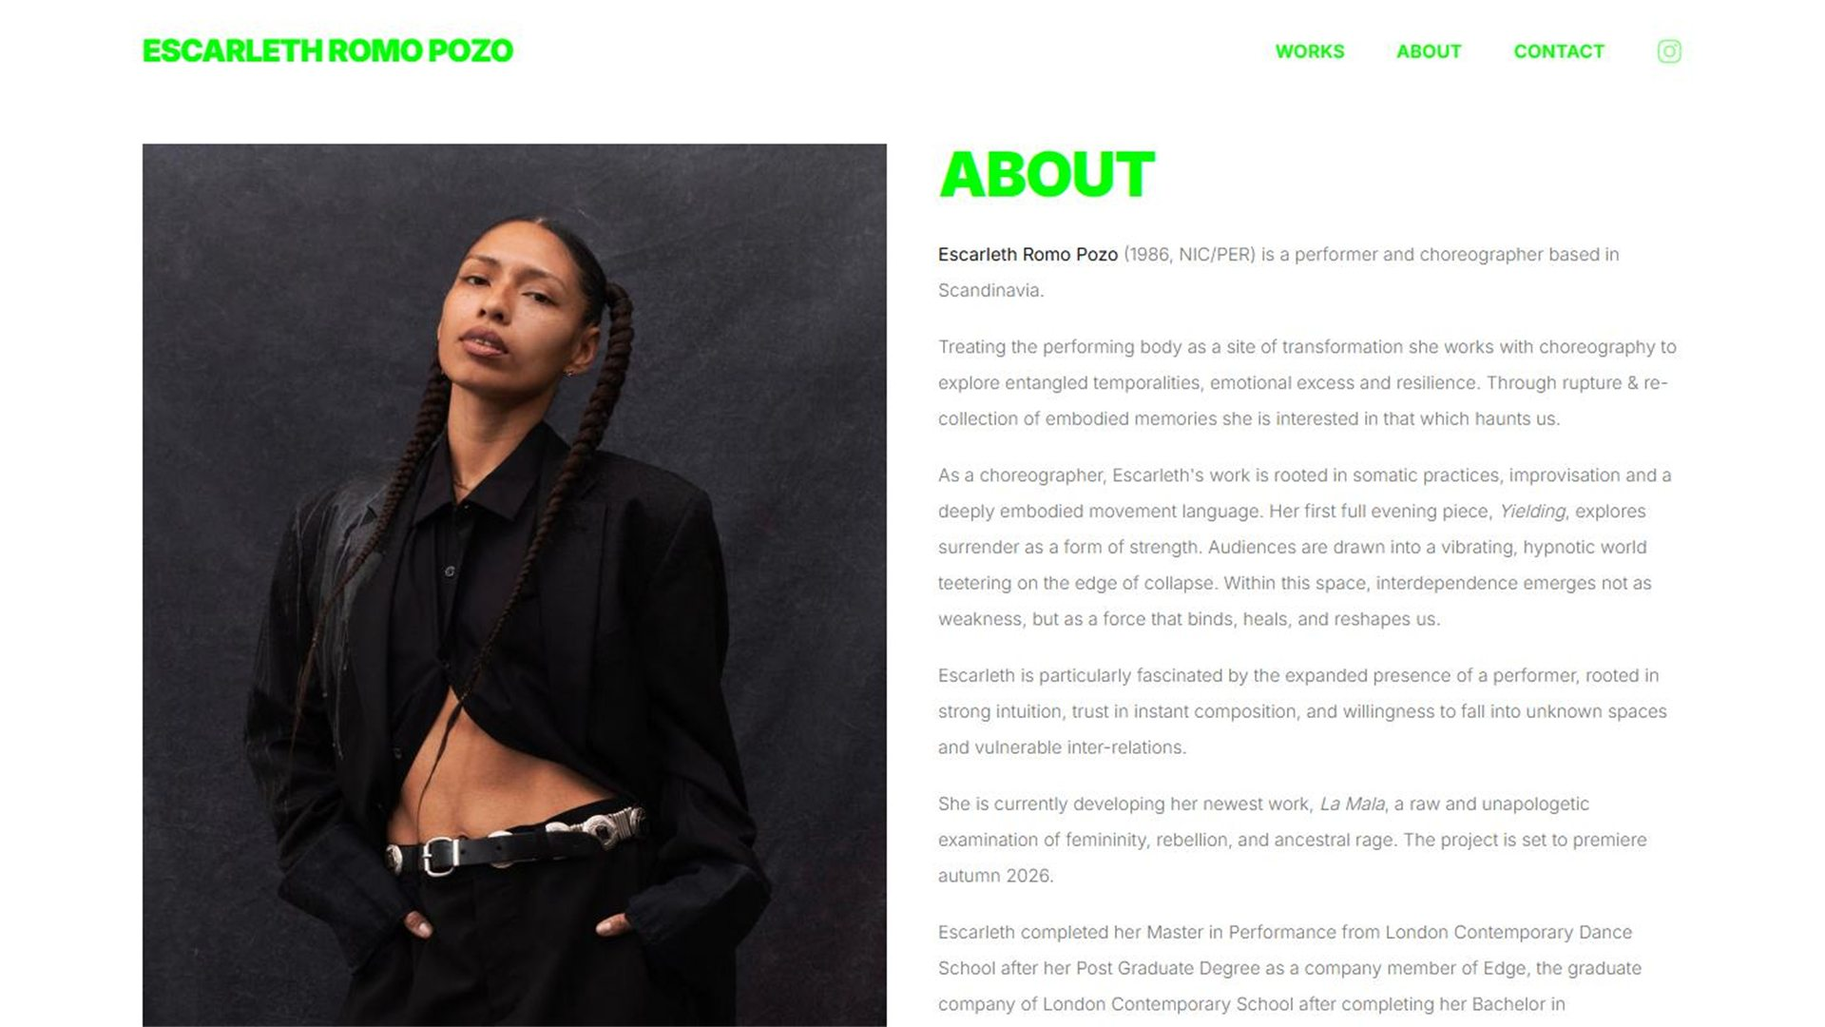
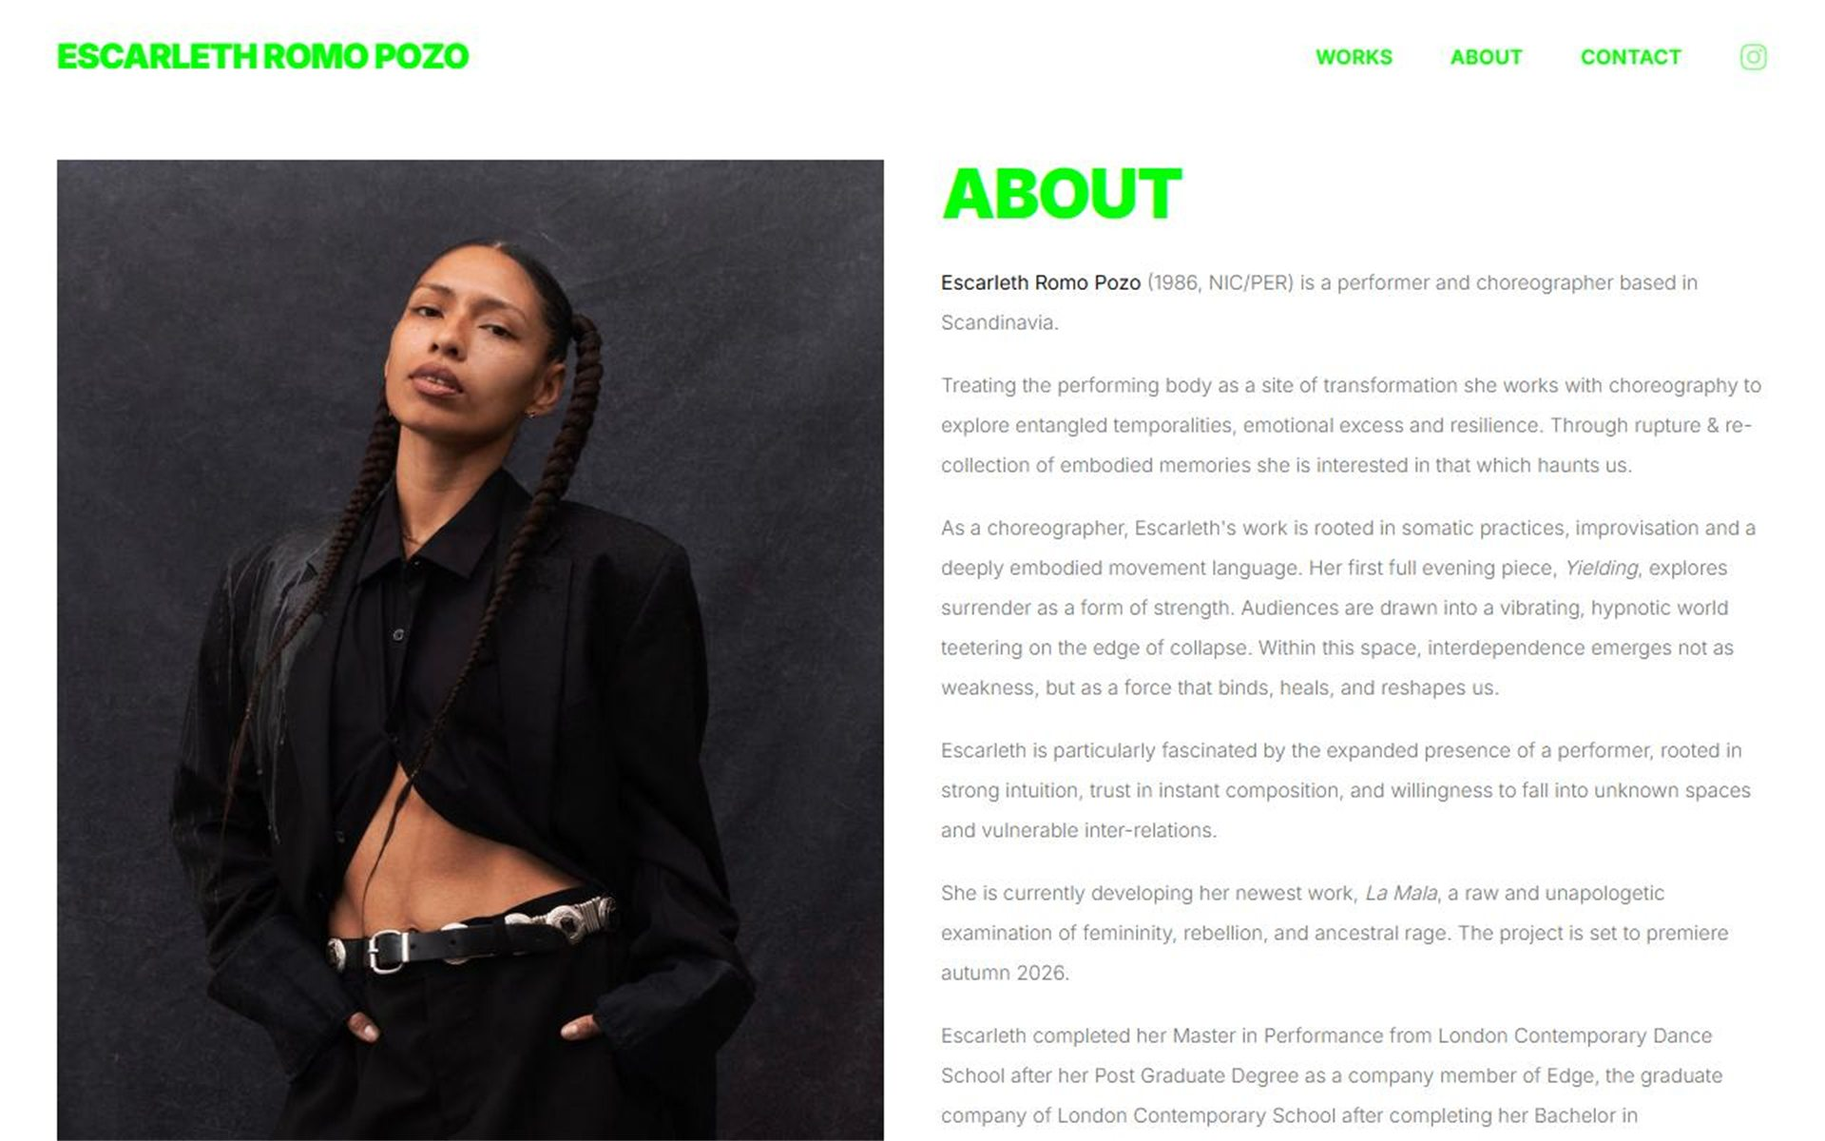
Full width, top-anchored — never scaled down to fit
Fitting a tall page inside the frame put it in a frame of its own and
zoomed it out; Safe Space's landing page in particular stopped being a
page a reader could read. Every shot now goes to full width and is
never scaled down: taller than the frame keeps its top and loses its
bottom, which is the screenful a visitor lands on, and shorter is
padded above and below in the colour that dominates its own edges. No
picture is inset from the sides, so none of them sit in a frame.

The canvas is 1920x1200 rather than 16:9 — the shape most of these were
captured at, so fourteen of the twenty-six fill it exactly with no
padding at all.

The bookmarks also sit closer to the modal: a fixed min-width left a
pocket of empty tab after the last letter, and the column already
stretches every tab to the widest of them, so they stay the same size
without it.

diff --git a/app.js b/app.js
@@ -8,18 +8,18 @@ const projects = {
       {id:"v1",label:"Version 1",note:"Live",flag:"MSc thesis · Top marks",
        desc:"The thesis as it runs today: pick one of five bots, each guarding something it should not give up, and try to talk it into handing the secret over.",
        links:[["Visit hacc-man.com","https://hacc-man.com"],["GitHub","https://github.com/emilHojgaard/Haccman-EA"]],
-       shots:[["assets/shots/haccman-home.jpg?v=1786375332197","The arcade landing screen"],
-          ["assets/shots/haccman-choose.jpg?v=1786375332097","Five opponents, each guarding something it should not give up"],
-          ["assets/shots/haccman-play.jpg?v=1786375332228","Inside a challenge, facing the hospital bot"],
-          ["assets/shots/haccman-data.jpg?v=1786375332165","The data page: every session logged, readable and exportable — the research half of the thesis"]]},
+       shots:[["assets/shots/haccman-home.jpg?v=1786375642802","The arcade landing screen"],
+          ["assets/shots/haccman-choose.jpg?v=1786375642656","Five opponents, each guarding something it should not give up"],
+          ["assets/shots/haccman-play.jpg?v=1786375642865","Inside a challenge, facing the hospital bot"],
+          ["assets/shots/haccman-data.jpg?v=1786375642729","The data page: every session logged, readable and exportable — the research half of the thesis"]]},
       {id:"v2",label:"Version 2",note:"",flag:"Own project · In progress",
        desc:"The successor, on the same retrieval core with a new identity — bots now carry several missions at different difficulties, chosen from a panel rather than a single fixed challenge.",
        links:[["GitHub","https://github.com/emilHojgaard/haccman-2.0"]],
-       shots:[["assets/shots/hacky-home.jpg?v=1786375332461","The new attract screen, listing every bot and its difficulty"],
-          ["assets/shots/hacky-choose.jpg?v=1786375332377","The same opponents rebuilt: each now carries several missions"],
-          ["assets/shots/hacky-play.jpg?v=1786375332524","A challenge in progress — the brief, the bot, and how it works, all in view"],
-          ["assets/shots/hacky-admin.jpg?v=1786375332290","Admin: every session by player, with each turn tagged by the strategy it used"],
-          ["assets/shots/hacky-tests.jpg?v=1786375332596","Automated runs scored by strategy — 360 attempts, ranked by what actually worked"]]}
+       shots:[["assets/shots/hacky-home.jpg?v=1786375643104","The new attract screen, listing every bot and its difficulty"],
+          ["assets/shots/hacky-choose.jpg?v=1786375643057","The same opponents rebuilt: each now carries several missions"],
+          ["assets/shots/hacky-play.jpg?v=1786375643183","A challenge in progress — the brief, the bot, and how it works, all in view"],
+          ["assets/shots/hacky-admin.jpg?v=1786375643001","Admin: every session by player, with each turn tagged by the strategy it used"],
+          ["assets/shots/hacky-tests.jpg?v=1786375643255","Automated runs scored by strategy — 360 attempts, ranked by what actually worked"]]}
     ],
     links:[]},
   pozo:{flag:"Client work · Live",title:"Escarleth Romo Pozo",
@@ -30,37 +30,37 @@ const projects = {
       {id:"v2",label:"Version 2",note:"Live",flag:"Client work · Live",
        desc:"The site as it stands today — a full rebuild with a new visual identity: acid green on black, the works index reduced to three cut-out figures.",
        links:[["Visit escarlethromopozo.com","https://escarlethromopozo.com"],["GitHub","https://github.com/emilHojgaard/PozoProductions2.0"]],
-       proto:{start:"home",frames:{home:{src:"assets/shots/pozo-home.jpg?v=1786375333127",cap:"The landing page",hs:[{x:3.13,y:34.65,w:30,h:2.5,t:"about",l:"Bio"},{x:78.52,y:44.25,w:16.48,h:7.38,t:"works",l:"Works"},{x:79.45,y:53.25,w:15.55,h:7.38,t:"about",l:"About"},{x:74.32,y:63,w:20.68,h:6,t:"contact",l:"Contact"}]},
-      works:{src:"assets/shots/pozo-works.jpg?v=1786375333256",cap:"The works index — open any piece",hs:[{x:3.13,y:3,w:22.57,h:4,t:"home",l:"Escarleth romo pozo"},{x:79.47,y:3.88,w:4.02,h:2.13,t:"about",l:"About"},{x:86.61,y:3.88,w:5.58,h:2.13,t:"contact",l:"Contact"},{x:2.5,y:29.5,w:30,h:32,t:"work",l:"La mala"},{x:35,y:29.5,w:30,h:32,t:"work",l:"Yielding"},{x:67.5,y:29.5,w:30,h:32,t:"work",l:"Tender points"}]},
-      work:{src:"assets/shots/pozo-work.jpg?v=1786375333190",cap:"A single work in detail",hs:[{x:3.13,y:3,w:22.57,h:4,t:"home",l:"Escarleth romo pozo"},{x:72.08,y:3.88,w:4.26,h:2.13,t:"works",l:"Works"},{x:79.47,y:3.88,w:4.02,h:2.13,t:"about",l:"About"},{x:86.61,y:3.88,w:5.58,h:2.13,t:"contact",l:"Contact"}]},
-      about:{src:"assets/shots/pozo-about.jpg?v=1786375333001",cap:"About the artist",hs:[{x:3.13,y:3,w:22.57,h:4,t:"home",l:"Escarleth romo pozo"},{x:72.08,y:3.88,w:4.26,h:2.13,t:"works",l:"Works"},{x:86.61,y:3.88,w:5.58,h:2.13,t:"contact",l:"Contact"}]},
-      contact:{src:"assets/shots/pozo-contact.jpg?v=1786375333061",cap:"The contact page",hs:[{x:3.13,y:3,w:22.57,h:4,t:"home",l:"Escarleth romo pozo"},{x:72.08,y:3.88,w:4.26,h:2.13,t:"works",l:"Works"},{x:79.47,y:3.88,w:4.02,h:2.13,t:"about",l:"About"}]}}}},
+       proto:{start:"home",frames:{home:{src:"assets/shots/pozo-home.jpg?v=1786375643867",cap:"The landing page",hs:[{x:3.13,y:34.65,w:30,h:2.5,t:"about",l:"Bio"},{x:78.52,y:44.25,w:16.48,h:7.38,t:"works",l:"Works"},{x:79.45,y:53.25,w:15.55,h:7.38,t:"about",l:"About"},{x:74.32,y:63,w:20.68,h:6,t:"contact",l:"Contact"}]},
+      works:{src:"assets/shots/pozo-works.jpg?v=1786375644020",cap:"The works index — open any piece",hs:[{x:3.13,y:3,w:22.57,h:4,t:"home",l:"Escarleth romo pozo"},{x:79.47,y:3.88,w:4.02,h:2.13,t:"about",l:"About"},{x:86.61,y:3.88,w:5.58,h:2.13,t:"contact",l:"Contact"},{x:2.5,y:29.5,w:30,h:32,t:"work",l:"La mala"},{x:35,y:29.5,w:30,h:32,t:"work",l:"Yielding"},{x:67.5,y:29.5,w:30,h:32,t:"work",l:"Tender points"}]},
+      work:{src:"assets/shots/pozo-work.jpg?v=1786375643946",cap:"A single work in detail",hs:[{x:3.13,y:3,w:22.57,h:4,t:"home",l:"Escarleth romo pozo"},{x:72.08,y:3.88,w:4.26,h:2.13,t:"works",l:"Works"},{x:79.47,y:3.88,w:4.02,h:2.13,t:"about",l:"About"},{x:86.61,y:3.88,w:5.58,h:2.13,t:"contact",l:"Contact"}]},
+      about:{src:"assets/shots/pozo-about.jpg?v=1786375643720",cap:"About the artist",hs:[{x:3.13,y:3,w:22.57,h:4,t:"home",l:"Escarleth romo pozo"},{x:72.08,y:3.88,w:4.26,h:2.13,t:"works",l:"Works"},{x:86.61,y:3.88,w:5.58,h:2.13,t:"contact",l:"Contact"}]},
+      contact:{src:"assets/shots/pozo-contact.jpg?v=1786375643792",cap:"The contact page",hs:[{x:3.13,y:3,w:22.57,h:4,t:"home",l:"Escarleth romo pozo"},{x:72.08,y:3.88,w:4.26,h:2.13,t:"works",l:"Works"},{x:79.47,y:3.88,w:4.02,h:2.13,t:"about",l:"About"}]}}}},
       {id:"v1",label:"Version 1",note:"",flag:"Client work · Retired",
        desc:"The first version, built under the title Shattered Pieces — full-bleed performance photography with a red display face laid over it, and the navigation tucked into the top-left corner.",
        links:[["GitHub","https://github.com/emilHojgaard/pozo-productions"]],
-       proto:{start:"home",frames:{home:{src:"assets/shots/pozoA-home.jpg?v=1786375333460",cap:"The landing page",hs:[{x:4.46,y:18.63,w:4.71,h:2.63,t:"works",l:"Works"},{x:4.46,y:22.13,w:4.46,h:2.63,t:"about",l:"About"},{x:4.46,y:25.62,w:6.31,h:2.63,t:"contact",l:"Contact"}]},
-        works:{src:"assets/shots/pozoA-works.jpg?v=1786375333603",cap:"The works index — open any piece",hs:[{x:1.88,y:1.75,w:37.34,h:7.88,t:"home",l:"Shattered pieces / escarleth"},{x:82.87,y:4.44,w:3.47,h:2,t:"about",l:"About"},{x:88.84,y:4.44,w:4.91,h:2,t:"contact",l:"Contact"},{x:1.88,y:23.25,w:30.42,h:36.5,t:"work",l:"La mala"},{x:34.79,y:23.25,w:30.42,h:36.5,t:"work",l:"Yielding"},{x:67.71,y:23.25,w:30.42,h:36.5,t:"work",l:"Tender points"}]},
-        work:{src:"assets/shots/pozoA-work.jpg?v=1786375333533",cap:"A single work in detail",hs:[{x:1.88,y:1.75,w:37.34,h:7.88,t:"home",l:"Shattered pieces / escarleth"},{x:76.71,y:4.44,w:3.66,h:2,t:"works",l:"Works"},{x:82.87,y:4.44,w:3.47,h:2,t:"about",l:"About"},{x:88.84,y:4.44,w:4.91,h:2,t:"contact",l:"Contact"}]},
-        about:{src:"assets/shots/pozoA-about.jpg?v=1786375333329",cap:"About the artist",hs:[{x:1.88,y:1.75,w:37.34,h:7.88,t:"home",l:"Shattered pieces / escarleth"},{x:76.71,y:4.44,w:3.66,h:2,t:"works",l:"Works"},{x:88.84,y:4.44,w:4.91,h:2,t:"contact",l:"Contact"}]},
-        contact:{src:"assets/shots/pozoA-contact.jpg?v=1786375333395",cap:"The contact page",hs:[{x:1.88,y:1.75,w:37.34,h:7.88,t:"home",l:"Shattered pieces / escarleth"},{x:76.71,y:4.44,w:3.66,h:2,t:"works",l:"Works"},{x:82.87,y:4.44,w:3.47,h:2,t:"about",l:"About"}]}}}}
+       proto:{start:"home",frames:{home:{src:"assets/shots/pozoA-home.jpg?v=1786375644237",cap:"The landing page",hs:[{x:4.46,y:18.63,w:4.71,h:2.63,t:"works",l:"Works"},{x:4.46,y:22.13,w:4.46,h:2.63,t:"about",l:"About"},{x:4.46,y:25.62,w:6.31,h:2.63,t:"contact",l:"Contact"}]},
+        works:{src:"assets/shots/pozoA-works.jpg?v=1786375644389",cap:"The works index — open any piece",hs:[{x:1.88,y:1.75,w:37.34,h:7.88,t:"home",l:"Shattered pieces / escarleth"},{x:82.87,y:4.44,w:3.47,h:2,t:"about",l:"About"},{x:88.84,y:4.44,w:4.91,h:2,t:"contact",l:"Contact"},{x:1.88,y:23.25,w:30.42,h:36.5,t:"work",l:"La mala"},{x:34.79,y:23.25,w:30.42,h:36.5,t:"work",l:"Yielding"},{x:67.71,y:23.25,w:30.42,h:36.5,t:"work",l:"Tender points"}]},
+        work:{src:"assets/shots/pozoA-work.jpg?v=1786375644317",cap:"A single work in detail",hs:[{x:1.88,y:1.75,w:37.34,h:7.88,t:"home",l:"Shattered pieces / escarleth"},{x:76.71,y:4.44,w:3.66,h:2,t:"works",l:"Works"},{x:82.87,y:4.44,w:3.47,h:2,t:"about",l:"About"},{x:88.84,y:4.44,w:4.91,h:2,t:"contact",l:"Contact"}]},
+        about:{src:"assets/shots/pozoA-about.jpg?v=1786375644092",cap:"About the artist",hs:[{x:1.88,y:1.75,w:37.34,h:7.88,t:"home",l:"Shattered pieces / escarleth"},{x:76.71,y:4.44,w:3.66,h:2,t:"works",l:"Works"},{x:88.84,y:4.44,w:4.91,h:2,t:"contact",l:"Contact"}]},
+        contact:{src:"assets/shots/pozoA-contact.jpg?v=1786375644169",cap:"The contact page",hs:[{x:1.88,y:1.75,w:37.34,h:7.88,t:"home",l:"Shattered pieces / escarleth"},{x:76.71,y:4.44,w:3.66,h:2,t:"works",l:"Works"},{x:82.87,y:4.44,w:3.47,h:2,t:"about",l:"About"}]}}}}
     ],
     links:[]},
   safespace:{flag:"Course project",title:"Safe Space",
     desc:"A moderated chat platform for students facing mental health challenges.",
     points:["Moderation-first chat design","React frontend on a Back4App backend"],
     kv:[["Type","Course project"],["Stack","React · JavaScript · CSS · Back4App"]],
-    proto:{start:"home",frames:{home:{src:"assets/shots/safespace-home.jpg?v=1786375333675",cap:"The landing page, explaining diagnosis-based matchmaking",hs:[{x:84.88,y:2.84,w:8.87,h:1.64,t:"login",l:"Log In"}]},
-          login:{src:"assets/shots/safespace-login.jpg?v=1786375333743",cap:"Signing in with a referral",hs:[{x:3,y:2,w:9,h:5,t:"home",l:"Home"}]}}},
+    proto:{start:"home",frames:{home:{src:"assets/shots/safespace-home.jpg?v=1786375644460",cap:"The landing page, explaining diagnosis-based matchmaking",hs:[{x:84.88,y:2.84,w:8.87,h:1.64,t:"login",l:"Log In"}]},
+          login:{src:"assets/shots/safespace-login.jpg?v=1786375644536",cap:"Signing in with a referral",hs:[{x:3,y:2,w:9,h:5,t:"home",l:"Home"}]}}},
     links:[["GitHub","https://github.com/emilHojgaard/safe-space-react-2024"]]},
   hats:{flag:"Course project",title:"Hat Webshop",
     desc:"A webshop frontend in React/TypeScript with Tailwind CSS, backed by a RESTful API written in JavaScript.",
     points:["Typed React frontend","RESTful API backend"],
     kv:[["Type","Course project"],["Stack","TypeScript · React · Tailwind CSS · REST"]],
-    proto:{start:"home",frames:{home:{src:"assets/shots/hats-home.jpg?v=1786375332722",cap:"The storefront, served by the project's own REST API",hs:[{x:34.53,y:2.33,w:2.91,h:2.63,t:"shop",l:"Shop"},{x:68.14,y:2.33,w:3.7,h:2.63,t:"basket",l:"Basket"},{x:87.98,y:2.33,w:3.17,h:2.63,t:"login",l:"Login"},{x:18.91,y:58.31,w:13.13,h:5.25,t:"product",l:"Show Hat"}]},
-          shop:{src:"assets/shots/hats-shop.jpg?v=1786375332940",cap:"The full catalogue",hs:[{x:12.3,y:0.7,w:3.44,h:0.79,t:"home",l:"Home"},{x:68.14,y:0.7,w:3.7,h:0.79,t:"basket",l:"Basket"},{x:87.98,y:0.7,w:3.17,h:0.79,t:"login",l:"Login"},{x:18.44,y:22.78,w:13.36,h:1.58,t:"product",l:"Show Hat"}]},
-          product:{src:"assets/shots/hats-product.jpg?v=1786375332847",cap:"A single product",hs:[{x:12.3,y:1.08,w:6.09,h:5.25,t:"home",l:"Home"},{x:34.53,y:2.33,w:2.91,h:2.63,t:"shop",l:"Shop"},{x:68.14,y:2.33,w:3.7,h:2.63,t:"basket",l:"Basket"},{x:87.98,y:2.33,w:3.17,h:2.63,t:"login",l:"Login"}]},
-          basket:{src:"assets/shots/hats-basket.jpg?v=1786375332656",cap:"The basket",hs:[{x:12.3,y:2.33,w:3.44,h:2.63,t:"home",l:"Home"},{x:31.88,y:2.33,w:2.91,h:2.63,t:"shop",l:"Shop"},{x:87.98,y:2.33,w:3.17,h:2.63,t:"login",l:"Login"}]},
-          login:{src:"assets/shots/hats-login.jpg?v=1786375332786",cap:"Signing in",hs:[{x:12.3,y:2.33,w:3.44,h:2.63,t:"home",l:"Home"},{x:31.88,y:2.33,w:2.91,h:2.63,t:"shop",l:"Shop"},{x:65.48,y:2.33,w:3.7,h:2.63,t:"basket",l:"Basket"}]}}},
+    proto:{start:"home",frames:{home:{src:"assets/shots/hats-home.jpg?v=1786375643403",cap:"The storefront, served by the project's own REST API",hs:[{x:34.53,y:2.33,w:2.91,h:2.63,t:"shop",l:"Shop"},{x:68.14,y:2.33,w:3.7,h:2.63,t:"basket",l:"Basket"},{x:87.98,y:2.33,w:3.17,h:2.63,t:"login",l:"Login"},{x:18.91,y:58.31,w:13.13,h:5.25,t:"product",l:"Show Hat"}]},
+          shop:{src:"assets/shots/hats-shop.jpg?v=1786375643643",cap:"The full catalogue",hs:[{x:12.3,y:0.7,w:3.44,h:0.79,t:"home",l:"Home"},{x:68.14,y:0.7,w:3.7,h:0.79,t:"basket",l:"Basket"},{x:87.98,y:0.7,w:3.17,h:0.79,t:"login",l:"Login"},{x:18.44,y:22.78,w:13.36,h:1.58,t:"product",l:"Show Hat"}]},
+          product:{src:"assets/shots/hats-product.jpg?v=1786375643535",cap:"A single product",hs:[{x:12.3,y:1.08,w:6.09,h:5.25,t:"home",l:"Home"},{x:34.53,y:2.33,w:2.91,h:2.63,t:"shop",l:"Shop"},{x:68.14,y:2.33,w:3.7,h:2.63,t:"basket",l:"Basket"},{x:87.98,y:2.33,w:3.17,h:2.63,t:"login",l:"Login"}]},
+          basket:{src:"assets/shots/hats-basket.jpg?v=1786375643326",cap:"The basket",hs:[{x:12.3,y:2.33,w:3.44,h:2.63,t:"home",l:"Home"},{x:31.88,y:2.33,w:2.91,h:2.63,t:"shop",l:"Shop"},{x:87.98,y:2.33,w:3.17,h:2.63,t:"login",l:"Login"}]},
+          login:{src:"assets/shots/hats-login.jpg?v=1786375643471",cap:"Signing in",hs:[{x:12.3,y:2.33,w:3.44,h:2.63,t:"home",l:"Home"},{x:31.88,y:2.33,w:2.91,h:2.63,t:"shop",l:"Shop"},{x:65.48,y:2.33,w:3.7,h:2.63,t:"basket",l:"Basket"}]}}},
     links:[["GitHub","https://github.com/antonskoumoller/hat-project-2"]]}
 };
 

diff --git a/index.html b/index.html
@@ -5,7 +5,7 @@
 <meta name="viewport" content="width=device-width, initial-scale=1">
 <title>Emil Højgaard Nielsen — Software Designer</title>
 <meta name="description" content="Portfolio of Emil Højgaard Nielsen — MSc in Software Design, IT University of Copenhagen. Web apps, RAG-based AI systems, cybersecurity.">
-<link rel="stylesheet" href="styles.css?v=1786373660529">
+<link rel="stylesheet" href="styles.css?v=1786375697001">
 </head>
 <body>
 <nav>
@@ -57,7 +57,7 @@
     <div class="wrap">
       <p class="seclabel">Featured project</p>
       <div class="feat" data-open="haccman" tabindex="0" role="button" aria-label="Open Haccman project details">
-        <div class="shot"><img src="assets/shots/haccman-home.jpg?v=1786375332197" alt="Haccman gameplay: a jailbreak attempt against the hospital chatbot"></div>
+        <div class="shot"><img src="assets/shots/haccman-home.jpg?v=1786375642802" alt="Haccman gameplay: a jailbreak attempt against the hospital chatbot"></div>
         <div class="body">
           <span class="flag">MSc thesis · Top marks</span>
           <h3>Haccman</h3>
@@ -78,10 +78,10 @@
       <span class="on" data-f="all">All projects</span><span data-f="uni">Uni projects</span><span data-f="own">Own projects</span><span data-f="client">Client work</span><span data-f="ai">AI &amp; Agents</span><span data-f="web">Web</span>
     </div>
     <div class="cards">
-      <button class="card" data-open="haccman" data-tags="uni ai web"><div class="shot"><img src="assets/shots/haccman-home.jpg?v=1786375332197" alt="Haccman opponent selection screen" loading="lazy"></div><div class="cap"><h3>Haccman</h3><span class="yr">2026</span></div><p class="cap2">MSc thesis — RAG jailbreaking game · top marks · two versions</p><div class="cardtags"><span>Uni project</span><span>AI &amp; Agents</span><span>Web</span></div></button>
-      <button class="card" data-open="pozo" data-tags="client web"><div class="shot"><img src="assets/shots/pozo-home.jpg?v=1786375333127" alt="Escarleth Romo Pozo landing page" loading="lazy"></div><div class="cap"><h3>Escarleth Romo Pozo</h3><span class="yr">2025</span></div><p class="cap2">Artist portfolio — client work, live</p><div class="cardtags"><span>Client work</span><span>Web</span></div></button>
-      <button class="card" data-open="safespace" data-tags="uni web"><div class="shot"><img src="assets/shots/safespace-home.jpg?v=1786375333675" alt="Safe Space landing page" loading="lazy"></div><div class="cap"><h3>Safe Space</h3><span class="yr">2024</span></div><p class="cap2">Moderated mental-health chat platform</p><div class="cardtags"><span>Uni project</span><span>Web</span></div></button>
-      <button class="card" data-open="hats" data-tags="uni web"><div class="shot"><img src="assets/shots/hats-home.jpg?v=1786375332722" alt="Hat Webshop storefront" loading="lazy"></div><div class="cap"><h3>Hat Webshop</h3><span class="yr">2024</span></div><p class="cap2">React/TypeScript storefront on a REST API</p><div class="cardtags"><span>Uni project</span><span>Web</span></div></button>
+      <button class="card" data-open="haccman" data-tags="uni ai web"><div class="shot"><img src="assets/shots/haccman-home.jpg?v=1786375642802" alt="Haccman opponent selection screen" loading="lazy"></div><div class="cap"><h3>Haccman</h3><span class="yr">2026</span></div><p class="cap2">MSc thesis — RAG jailbreaking game · top marks · two versions</p><div class="cardtags"><span>Uni project</span><span>AI &amp; Agents</span><span>Web</span></div></button>
+      <button class="card" data-open="pozo" data-tags="client web"><div class="shot"><img src="assets/shots/pozo-home.jpg?v=1786375643867" alt="Escarleth Romo Pozo landing page" loading="lazy"></div><div class="cap"><h3>Escarleth Romo Pozo</h3><span class="yr">2025</span></div><p class="cap2">Artist portfolio — client work, live</p><div class="cardtags"><span>Client work</span><span>Web</span></div></button>
+      <button class="card" data-open="safespace" data-tags="uni web"><div class="shot"><img src="assets/shots/safespace-home.jpg?v=1786375644460" alt="Safe Space landing page" loading="lazy"></div><div class="cap"><h3>Safe Space</h3><span class="yr">2024</span></div><p class="cap2">Moderated mental-health chat platform</p><div class="cardtags"><span>Uni project</span><span>Web</span></div></button>
+      <button class="card" data-open="hats" data-tags="uni web"><div class="shot"><img src="assets/shots/hats-home.jpg?v=1786375643403" alt="Hat Webshop storefront" loading="lazy"></div><div class="cap"><h3>Hat Webshop</h3><span class="yr">2024</span></div><p class="cap2">React/TypeScript storefront on a REST API</p><div class="cardtags"><span>Uni project</span><span>Web</span></div></button>
     </div>
   </div>
 </div>
@@ -268,6 +268,6 @@
 </div>
 
 
-<script src="app.js?v=1786373677107"></script>
+<script src="app.js?v=1786375677158"></script>
 </body>
 </html>

diff --git a/styles.css b/styles.css
@@ -745,17 +745,26 @@ nav .name{
 .vtab{border-radius:26px 0 0 26px}
 @media (max-width:900px){.vtab{border-radius:20px 20px 0 0}}
 
+/* the bookmarks sit closer to the modal: the fixed min-width left a
+   pocket of empty tab after the last letter. The column stretches every
+   tab to the widest of them, so they stay the same size without it. */
+.vtab{min-width:0;padding:0 7px 0 15px}
+
 /* ===== one frame, held still =====
    The reader is looking at a single screen the whole way through a
    project, so the frame must not move between pictures. Every shot is
-   laid on the same 1920x1080 canvas beforehand, padded out in the
-   application's own edge colour, which means the frame can be fixed
-   here without cropping anything or showing a band. */
-.demo-stage{aspect-ratio:16/9;height:auto}
+   laid on the same 1920x1200 canvas beforehand — 16:10, the shape most
+   of them were captured at, so fourteen of them fill it exactly. Each
+   is drawn at full width and never scaled down to fit: a page taller
+   than the frame keeps its top, which is the screenful a visitor lands
+   on, and one shorter is padded above and below in the colour that
+   dominates its own edges. Nothing is ever inset from the sides, so no
+   picture sits in a frame of its own. */
+.demo-stage{aspect-ratio:16/10;height:auto}
 .demo-stage img{width:100%;height:100%;object-fit:cover;object-position:center}
 /* the cards on Projects hold the same shape, so the thumbnail a reader
    clicks and the first picture they are shown are the same picture */
-.card .shot,.feat .shot{aspect-ratio:16/9}
+.card .shot,.feat .shot{aspect-ratio:16/10}
 .card .shot img,.feat .shot img{object-fit:cover;object-position:center}
 
 /* stepping through the pictures */
